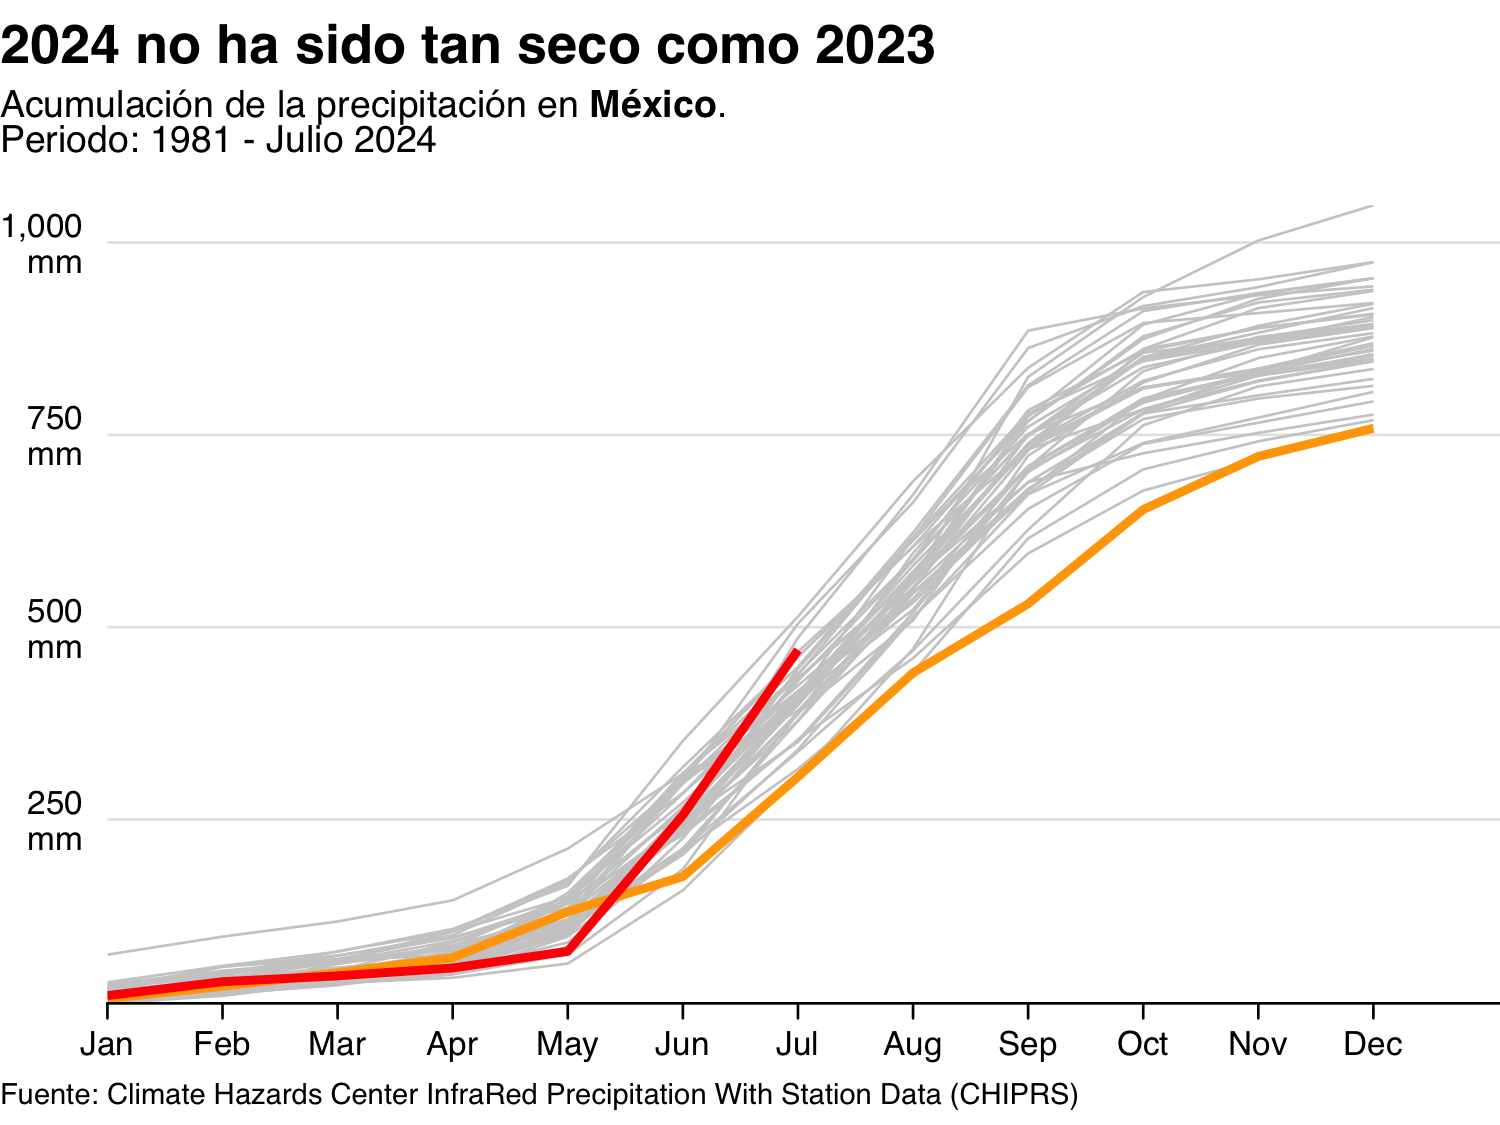
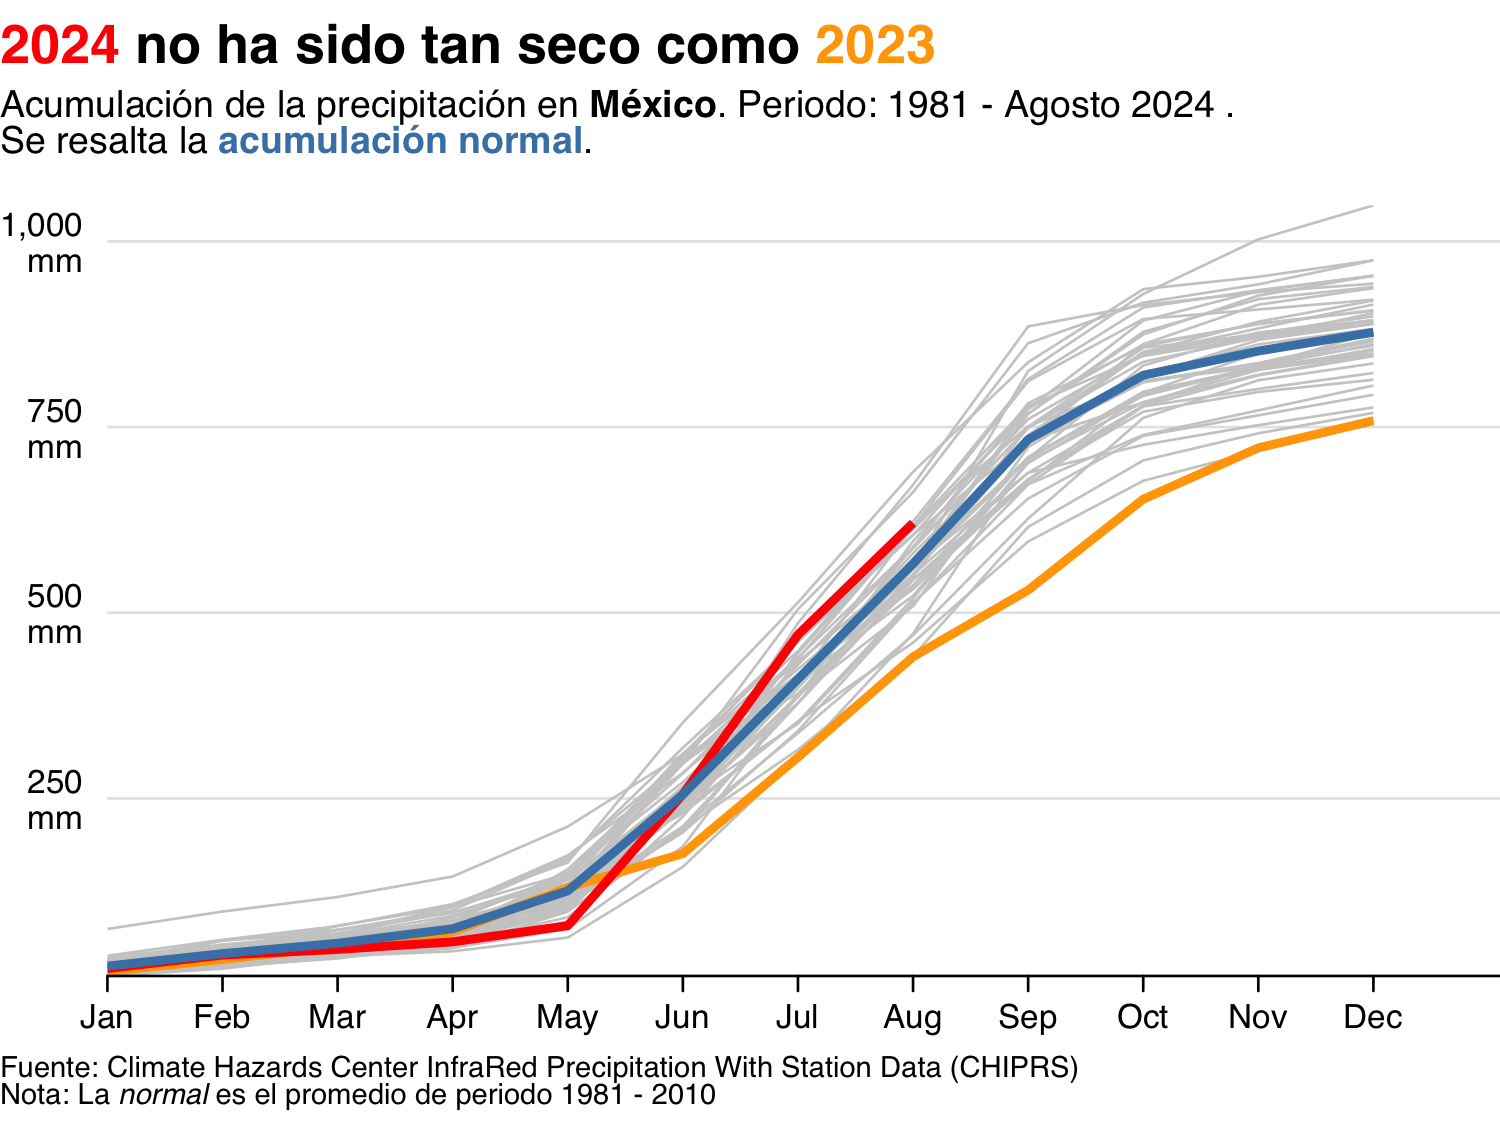
update basic_stats - update charts - still working

diff --git a/EarthEngine/chirps/estadisticas/basic_stats.md b/EarthEngine/chirps/estadisticas/basic_stats.md
@@ -11,9 +11,22 @@
 
 Lorem ipsum dolor sit amet, consectetur adipiscing elit. Aenean eu purus mattis, ultrices enim eget, efficitur nisl. Nulla ipsum purus, efficitur non dignissim eget, consectetur a erat. Vestibulum ante ipsum primis in faucibus orci luctus et ultrices posuere cubilia curae; Vivamus feugiat finibus urna, vel fermentum tortor sagittis eu. Vestibulum ultrices, nunc quis mollis fermentum, nibh odio finibus ante, at scelerisque turpis neque sed odio. Praesent ullamcorper velit dui, sed ultricies ex eleifend id. Fusce molestie massa tempus odio ultrices, quis dignissim libero maximus. Proin posuere vestibulum eros, at aliquam tellus convallis in. Nunc a dictum mauris. Proin tincidunt erat erat, vitae vulputate mi placerat vitae. Aenean scelerisque, turpis a varius congue, diam mi consectetur metus, eu pulvinar dui nisl nec neque.
 
+<div id="fig-cumsum-pr-nac">
+
 <img src="basic_stats_files/figure-commonmark/fig-cumsum-pr-nac-1.png" id="fig-cumsum-pr-nac" />
 
+
+Figura 1
+
+</div>
+<div id="fig-pr-nac">
+
 <img src="basic_stats_files/figure-commonmark/fig-pr-nac-1.png" id="fig-pr-nac" />
+
+
+Figura 2
+
+</div>
 
 ## 02
 
